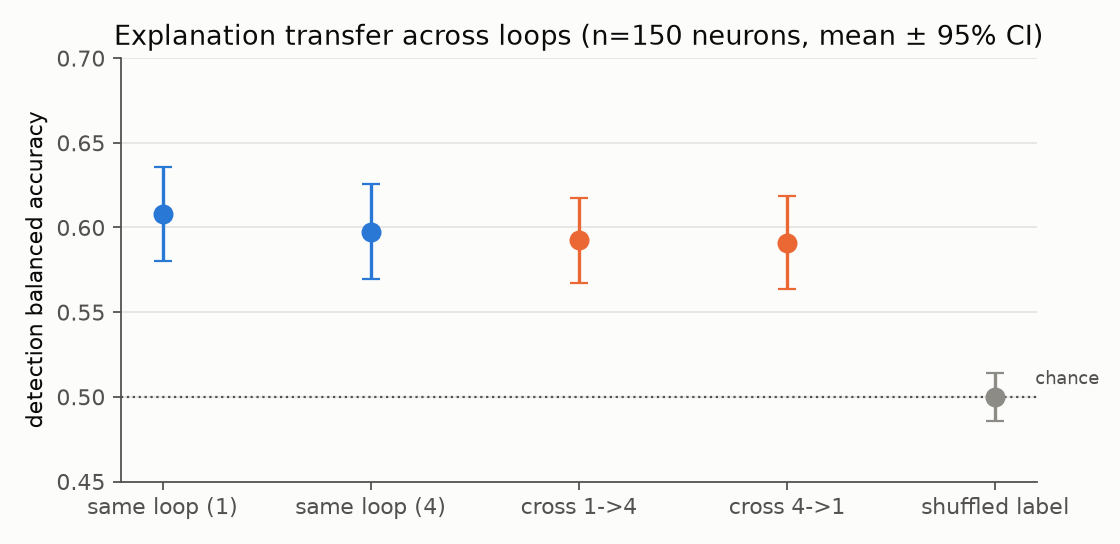
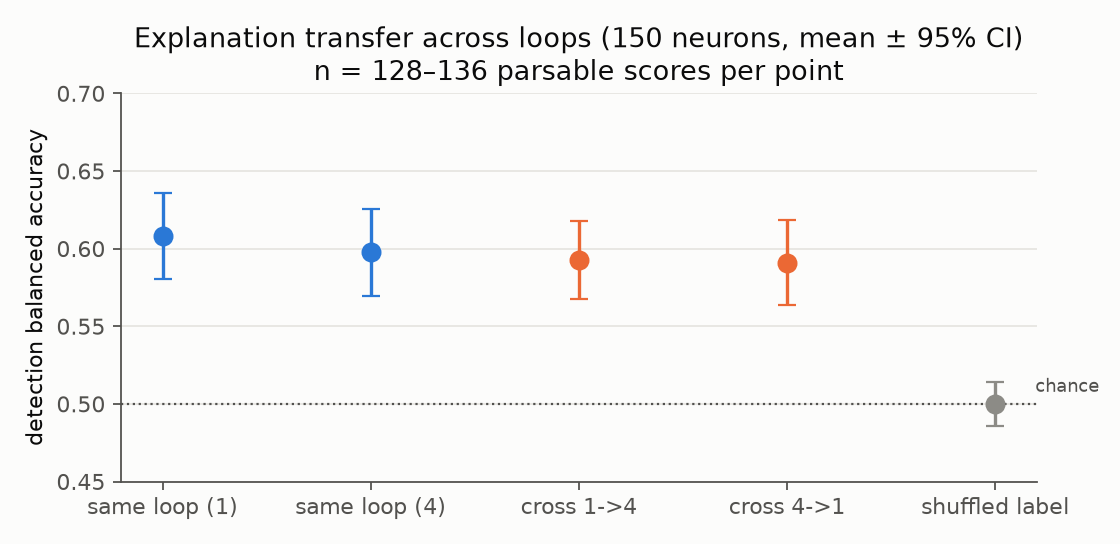
Fix docstrings, HF card text, figure labels; render fresh replication table with null-floor note
- reporting: tables for replication.json and replication_fresh.json, each with a note that R=20, K=5 cannot pass Holm
- plots: audit title shows parsable n per point; confirm legend names the 50-prompt null statistic
- DATASET_CARD: atlas skips positions 0-3, 90/10 mix is per document, Common Crawl terms
- docstrings: Delphi prompt provenance, distinct-2 definition, Ouro paper reports benchmarks not loss, Bills scale

diff --git a/src/loopneuron/reporting.py b/src/loopneuron/reporting.py
@@ -1,7 +1,7 @@
-"""Markdown tables rendered directly from results/<model>/*.json (no hand-copied numbers in reports).
+"""Markdown tables rendered directly from results/<model>/*.json (no hand-copied numbers in these tables).
 
-Global context: `run_pipeline.py --phase report` writes reports/tables/*.md; narrative reports include these files'
-content verbatim, so every reported number is traceable to a results file.
+Global context: `run_pipeline.py --phase report` writes reports/tables/*.md. The narrative reports link to these
+tables and copy selected numbers from them or from the results JSON, so every reported number can be traced to a file.
 """
 from __future__ import annotations
 
@@ -123,12 +123,20 @@ def write_tables(res_dir: Path, out_dir: Path) -> list[Path]:
                          f"### Test-time loops\n{locus_table(f['t_sweep'], 'T')}\n\n### Ablation\n{ablation_line(f['ablation'])}\n",
                          encoding="utf-8")
             made.append(p)
-    if (res_dir / "replication.json").exists():
-        rep = rd("replication.json")
-        p = out_dir / "replication.md"
-        p.write_text(confirm_table(rep, labels) + "\n\nWeight correspondence: " + json.dumps(rep["correspondence"]) +
-                     "\n\nMax activation base vs Thinking: " + json.dumps({"base": rep["base_max_act"], "thinking": rep["thinking_max_act"]}) + "\n",
-                     encoding="utf-8")
+    for name in ("replication", "replication_fresh"):  # Thinking checkpoint: confirm prompts, then fresh reserve prompts
+        if not (res_dir / f"{name}.json").exists():
+            continue
+        rep = rd(f"{name}.json")
+        floor = len(rep["results"]) / (rep["R"] + 1)  # smallest Holm-adjusted null p = K / (R + 1)
+        note = (f"\n\nThe decision column applies the confirmatory rule. With R = {rep['R']} random neurons and K = "
+                f"{len(rep['results'])}, the smallest attainable Holm-adjusted null p is {floor:.3f}"
+                + (", so it reads 'not significant' by construction; the replication criterion is in "
+                   "reports/06_replication.md." if floor >= 0.05 else "."))
+        if "correspondence" in rep:  # only the first replication run checks weights and maxima
+            note += ("\n\nWeight correspondence: " + json.dumps(rep["correspondence"]) + "\n\nMax activation base vs Thinking: "
+                     + json.dumps({"base": rep["base_max_act"], "thinking": rep["thinking_max_act"]}))
+        p = out_dir / f"{name}.md"
+        p.write_text(confirm_table(rep, labels) + note + "\n", encoding="utf-8")
         made.append(p)
     if (res_dir / "audit.json").exists() and (res_dir / "llm_judge.json").exists():
         p = out_dir / "audit_judge.md"

diff --git a/run_pipeline.py b/run_pipeline.py
@@ -373,12 +373,13 @@ https://github.com/BurnyCoder/looped-transformers-llms-neuron-mechanistic-interp
 
 Files:
 - `atlas.pt`: torch dict for all 135,168 SwiGLU neurons (24 layers x 5632) and both poles (index 0 = positive, 1 = negative).
-  - `top_v`/`top_seq`/`top_pos`/`top_loop` [24, 2, 5632, 40]: top-40 contexts, maximum over positions x loops.
+  - `top_v`/`top_seq`/`top_pos`/`top_loop` [24, 2, 5632, 40]: top-40 contexts, maximum over positions 4-255 x loops
+    (the first 4 positions of every chunk are skipped).
   - `lt_v`/`lt_seq`/`lt_pos` [24, 4, 2, 5632, 20]: top-20 contexts per loop.
-  - Per-loop `mean`, `mean_abs`, `std`, `frac_pos` [24, 4, 5632].
+  - Per-loop `mean`, `mean_abs`, `std`, `frac_pos` [24, 4, 5632] (every 8th batch, 987,840 tokens per layer and loop).
   - `exceed` counts and the `dead` flag.
 - `tokens_atlas.npy`: uint16 [31250, 256], the token chunks that `*_seq`/`*_pos` index (Ouro tokenizer;
-  FineWeb-Edu sample-10BT shard 000 + 10% OpenWebMath).
+  documents drawn 90% from FineWeb-Edu sample-10BT shard 000 and 10% from OpenWebMath shard 0).
 - `featured_neurons.jsonl`: decoded top contexts (peak token marked <<>>) for the screened and validated candidates.
 - `results/*.json`: pre-registered confirmatory test, follow-ups, audit, replication and LLM-judge results.
 
@@ -388,8 +389,9 @@ indices also steer Ouro-1.4B-Thinking (replication with a descriptive 20-neuron 
 
 Licenses and attribution: the tables and results produced by this project are MIT-licensed. `tokens_atlas.npy` and the
 decoded contexts in `featured_neurons.jsonl` derive from FineWeb-Edu (https://huggingface.co/datasets/HuggingFaceFW/fineweb-edu)
-and OpenWebMath (https://huggingface.co/datasets/open-web-math/open-web-math), both ODC-By 1.0, and remain subject to
-those terms. Activations come from Ouro-1.4B (Apache-2.0).
+and OpenWebMath (https://huggingface.co/datasets/open-web-math/open-web-math), both ODC-By 1.0 and the Common Crawl
+Terms of Use (https://commoncrawl.org/terms-of-use), and remain subject to those terms. Activations come from Ouro-1.4B
+(Apache-2.0).
 """
 
 

diff --git a/src/loopneuron/prompts.py b/src/loopneuron/prompts.py
@@ -1,10 +1,12 @@
-"""LLM prompt templates, copied verbatim from established auto-interp / steering-eval work (both Apache-2.0).
+"""LLM prompt templates from established auto-interp / steering-eval work (both repos Apache-2.0).
 
 - EXPLAINER_SYSTEM and DETECTION_* : EleutherAI Delphi (Paulo et al. 2024, https://arxiv.org/abs/2410.13928),
   files delphi/explainers/default/prompts.py and delphi/scorers/classifier/prompts/detection_prompt.py
-  at https://github.com/EleutherAI/delphi .
+  at https://github.com/EleutherAI/delphi . The system and user prompts are verbatim (EXPLAINER_SYSTEM without
+  Delphi's trailing chain-of-thought slot); the few-shot examples are Delphi's, decoded from GPT-2 byte-level BPE
+  strings and ASCII-normalized (one apostrophe became "boss's"). Kept as run, so logs match this file.
 - JUDGE_CONCEPT / JUDGE_FLUENCY : AxBench (Wu et al. 2025, https://arxiv.org/abs/2501.17148),
-  axbench/evaluators/prompt_templates.py at https://github.com/stanfordnlp/axbench .
+  axbench/evaluators/prompt_templates.py at https://github.com/stanfordnlp/axbench (verbatim).
 Global context: autointerp.py formats these; llm.py sends them to the local Qwen3.5 server and logs them in full.
 """
 
@@ -29,7 +31,7 @@ You will then be given several text examples. Your task is to determine which ex
 For each example in turn, return 1 if the sentence is correctly labeled or 0 if the tokens are mislabeled. You must return your response in a valid Python list. Do not return anything else besides a Python list.
 """
 
-DETECTION_FEWSHOT = [  # Delphi's three few-shot examples (Neuronpedia GPT-2 small latents)
+DETECTION_FEWSHOT = [  # Delphi's three few-shot examples (Neuronpedia GPT-2 small latents), decoded from byte-level BPE
     ("""Latent explanation: Words related to American football positions, specifically the tight end position.
 
 Test examples:

diff --git a/src/loopneuron/plots.py b/src/loopneuron/plots.py
@@ -87,7 +87,7 @@ def confirm_effects(conf: dict, path: Path):
     ax.set_yticks(range(len(rs)), [f'L{r["layer"]} N{r["neuron"]} {"+" if r["pole"] == 0 else "−"}  α={r["alpha"]:g}' for r in rs])
     ax.set(xlabel="mean ΔC (steered − unsteered), 95% bootstrap CI", title="Pre-registered confirmatory test")
     ax.plot([], [], "o-", color=S1, label="candidate (significant)")
-    ax.plot([], [], "|", color=S2, ms=12, mew=2, label="random same-layer null, 95th pct.")
+    ax.plot([], [], "|", color=S2, ms=12, mew=2, label="random same-layer null, 95th pct. (50 prompts, sample 0)")
     ax.legend(loc="upper center", bbox_to_anchor=(0.5, -0.22), ncol=2, fontsize=8)
     return _save(fig, path)
 
@@ -187,6 +187,7 @@ def audit_bars(audit: list, path: Path, T: int = 4):
               "shuffled label": np.array([r["shuffled"]["balanced_acc"] for r in audit])}
     fig, ax = plt.subplots(figsize=(7, 3.4))
     names = list(groups)
+    ns = [int(np.isfinite(groups[n]).sum()) for n in names]  # parsable scores per point (unparsable = NaN, dropped)
     for i, n in enumerate(names):  # dot + CI (not bars): the axis does not start at 0
         v = groups[n][np.isfinite(groups[n])]
         se = v.std(ddof=1) / np.sqrt(len(v))
@@ -197,7 +198,8 @@ def audit_bars(audit: list, path: Path, T: int = 4):
     ax.set_xticks(range(len(names)), names)
     ax.grid(axis="x", visible=False)
     ax.set(ylabel="detection balanced accuracy", ylim=(0.45, 0.7),
-           title=f"Explanation transfer across loops (n={len(audit)} neurons, mean ± 95% CI)")
+           title=f"Explanation transfer across loops ({len(audit)} neurons, mean ± 95% CI)\n"
+                 f"n = {min(ns)}–{max(ns)} parsable scores per point")
     return _save(fig, path)
 
 

diff --git a/tests/test_reporting.py b/tests/test_reporting.py
@@ -1,4 +1,6 @@
 """Audit and LLM-judge statistics in reporting must pair the right scores, drop unparsable ones and match scipy/Holm."""
+import json
+
 import numpy as np
 from scipy import stats as st
 
@@ -26,3 +28,18 @@ def test_audit_tests_pairing_and_nan_handling():
 def test_judge_holm_matches_stats_holm():
     judge = {"a": {"p_concept": 0.003}, "b": {"p_concept": 0.04}, "c": {"p_concept": 0.0001}}
     assert np.allclose(list(reporting.judge_holm(judge).values()), stats.holm([0.003, 0.04, 0.0001]))
+
+
+def test_write_tables_renders_fresh_replication_with_null_floor_note(tmp_path):
+    """replication_fresh.json gets its own table, and the note explains why R=20, K=5 can never pass Holm."""
+    row = {"layer": 1, "pole": 0, "alpha": 1.0, "mean_delta": 0.1, "ci95": [0.05, 0.15], "dz": 1.0, "rank_biserial": 0.9,
+           "p_wilcoxon": 1e-10, "p_wilcoxon_holm": 1e-10, "p_null": 1 / 21, "p_null_holm": 5 / 21, "null_mean": 0.0,
+           "null_q95": 0.01, "ppl_ratio_median": 1.5, "distinct2_steered_median": 0.9, "robust_mean_delta": 0.1,
+           "significant": False}
+    rows = [{**row, "key": f"1_{i}_0", "neuron": i} for i in range(5)]  # K = 5 candidates
+    (tmp_path / "screen.json").write_text(json.dumps({"candidates": [{"layer": 1, "neuron": 0, "pole": 0, "label": "x"}]}))
+    (tmp_path / "replication_fresh.json").write_text(json.dumps({"R": 20, "results": rows}))
+    made = reporting.write_tables(tmp_path, tmp_path / "tables")
+    text = (tmp_path / "tables" / "replication_fresh.md").read_text(encoding="utf-8")
+    assert [p.name for p in made] == ["replication_fresh.md"]
+    assert "R = 20" in text and "0.238" in text and "by construction" in text

diff --git a/src/loopneuron/autointerp.py b/src/loopneuron/autointerp.py
@@ -1,8 +1,9 @@
 """Automated neuron explanations, detection scoring and AxBench-style judging with the local LLM.
 
 Local:
-- `explain`: Delphi explainer prompt over top examples with the peak token marked <<like this>> and its activation
-  on a 0-10 scale relative to the neuron's max (scale convention of Bills et al. 2023).
+- `explain`: Delphi explainer system prompt (without Delphi's few-shot demonstrations) over top examples with the peak
+  token marked <<like this>> and one activation level per example on a 0-10 scale relative to the neuron's max (as in
+  Bills et al. 2023, which floors relu(a); here |a| is rounded).
 - `detection_score`: Delphi detection scorer -> balanced accuracy of the LLM deciding, from the explanation alone,
   which held-out contexts are activating vs random (Paulo et al. 2024, https://arxiv.org/abs/2410.13928).
 - `judge`: AxBench concept/fluency ratings 0-2 with explanation before the score (Wu et al. 2025).

diff --git a/src/loopneuron/experiments.py b/src/loopneuron/experiments.py
@@ -5,7 +5,7 @@ Local:
 - dose_response: Delta concept score and PPL ratio over alpha (clamp = alpha x max|a| on the pole), with the
   sandwich-norm saturation scale c* = median ||W_down a|| / ||w_i|| measured on the prompts (docs/methodology.md sec. 2).
 - loop_locus (H2): clamp only at loop t; behavioral Delta C, next-token KL on the prompts, and relative displacement
-  of the final hidden state. Prior residual-direction steering of Ouro found the last loop most effective
+  of the final hidden state. Prior residual-direction steering of Ouro-1.4B-Thinking found the last loop most effective
   (nesiacel 2026, https://www.lesswrong.com/posts/rzcJMpnehFBD686gj/).
 - t_sweep (H3): clamp at all loops while running T = 1..8 loops (T > 4 is extrapolation), each vs its own baseline.
 - ablation: set the neuron to 0 at all loops on its held-out top contexts (atlas ranks 21-40) and measure the NLL

diff --git a/src/loopneuron/metrics.py b/src/loopneuron/metrics.py
@@ -6,7 +6,8 @@ Local:
   Embedder: BAAI/bge-small-en-v1.5 (https://huggingface.co/BAAI/bge-small-en-v1.5) via sentence-transformers
   (https://www.sbert.net/); robustness embedder: sentence-transformers/all-MiniLM-L6-v2.
 - Fluency guard: perplexity of the continuation under the *unsteered* model given the prompt.
-- distinct-2: unique bigrams / bigrams (Li et al. 2016, https://arxiv.org/abs/1510.03055) for repetition confounds.
+- distinct-2: unique / total bigrams of one continuation, a per-text variant of the distinct-n diversity score of
+  Li et al. 2016 (https://arxiv.org/abs/1510.03055, computed there over all responses); low = repetitive text.
 - Concept-token mass: log of total next-token probability on the neuron's keyword tokens (teacher-forced).
 Global context: screening and the confirmatory test compute these for every (prompt, sample, condition).
 """

diff --git a/src/loopneuron/sanity.py b/src/loopneuron/sanity.py
@@ -3,7 +3,8 @@
 Checks (all written to results/<model>/setup_check.json and the log):
 0. the checkpoint loads with no missing, unexpected or mismatched state-dict keys;
 1. held-out FineWeb-Edu loss/perplexity for T = 1..8 loops (T>4 is extrapolation; Zhu et al. 2025,
-   https://arxiv.org/abs/2510.25741, report loss improving with recurrent steps up to the trained T=4);
+   https://arxiv.org/abs/2510.25741 §5.3, report benchmark performance improving up to the trained T=4 and degrading
+   moderately beyond it);
 2. how often the model's *default* early-exit path (threshold 1.0 on a bf16 cumulative exit PDF) disagrees with the
    fixed last-loop exit we use everywhere (motivates `model.early_exit_step = T-1`);
 3. a few sampled continuations (logged in full) to eyeball fluency.

diff --git a/src/loopneuron/config.py b/src/loopneuron/config.py
@@ -96,7 +96,7 @@ def load_settings(**overrides) -> Settings:
 def disk_guard(required_gb: float, min_free_gb: float, path: Path = ROOT) -> float:
     """Raise if downloading `required_gb` would leave less than `min_free_gb` free on `path`'s drive.
 
-    Returns current free GB. The dev machine has ~25 GB free, so every download goes through this check.
+    Returns current free GB. `load_model` calls it before downloading uncached Ouro weights.
     """
     free_gb = shutil.disk_usage(path).free / 1e9  # bytes -> GB (decimal, like HF file sizes)
     if free_gb - required_gb < min_free_gb:  # projected free space after the download

diff --git a/reports/tables/replication.md b/reports/tables/replication.md
@@ -6,6 +6,8 @@
 | L6 N3344 - | 4.0 | The text latents describe interface elements and actions for validating and rewarding cont | 0.180 [0.160, 0.201] | 1.68 | 0.99 | 4.0e-18 (1.6e-17) | 0.0476 (0.2381) | 0.020 / 0.100 | 1.79 | 0.79 | 0.133 | not significant |
 | L18 N1735 - | 2.0 | The text latents commonly describe core quantum mechanical concepts related to atomic stru | 0.169 [0.142, 0.196] | 1.21 | 0.94 | 2.1e-16 (2.1e-16) | 0.0476 (0.2381) | 0.003 / 0.010 | 1.98 | 0.87 | 0.233 | not significant |
 
+The decision column applies the confirmatory rule. With R = 20 random neurons and K = 5, the smallest attainable Holm-adjusted null p is 0.238, so it reads 'not significant' by construction; the replication criterion is in reports/06_replication.md.
+
 Weight correspondence: [{"layer": 18, "layer_min_cos_quantiles": [0.9939496427774429, 0.995608925819397, 0.9979492264986038], "candidates": {"3066": {"gate_proj": 0.997904896736145, "up_proj": 0.9968602657318115, "down_proj": 0.997141420841217}}}, {"layer": 13, "layer_min_cos_quantiles": [0.9933820247650147, 0.9952685236930847, 0.9978753793239593], "candidates": {"1680": {"gate_proj": 0.9963729977607727, "up_proj": 0.9982006549835205, "down_proj": 0.9981408715248108}}}, {"layer": 4, "layer_min_cos_quantiles": [0.995450987815857, 0.9967373013496399, 0.9983623677492142], "candidates": {"2104": {"gate_proj": 0.9964658617973328, "up_proj": 0.9984044432640076, "down_proj": 0.9976550340652466}}}, {"layer": 6, "layer_min_cos_quantiles": [0.9948334562778473, 0.9962727427482605, 0.9981365245580673], "candidates": {"3344": {"gate_proj": 0.9963160157203674, "up_proj": 0.9972864985466003, "down_proj": 0.9970216751098633}}}, {"layer": 18, "layer_min_cos_quantiles": [0.9939496427774429, 0.995608925819397, 0.9979492264986038], "candidates": {"1735": {"gate_proj": 0.9978899955749512, "up_proj": 0.9970484375953674, "down_proj": 0.9979668855667114}}}]
 
 Max activation base vs Thinking: {"base": {"18_3066_1": 4.0625, "13_1680_0": 0.66015625, "4_2104_0": 0.56640625, "6_3344_1": 0.267578125, "18_1735_1": 3.625}, "thinking": {"18_3066_1": 4.125, "13_1680_0": 0.69140625, "4_2104_0": 0.56640625, "6_3344_1": 0.25390625, "18_1735_1": 3.515625}}

diff --git a/reports/tables/replication_fresh.md b/reports/tables/replication_fresh.md
@@ -1,0 +1,9 @@
+| neuron (layer, index, pole) | alpha | concept (Qwen3.5 label, shortened) | mean Delta C [95% CI] | d_z | rank-biserial | p Wilcoxon (Holm) | p random-neuron null (Holm) | null mean / q95 | PPL ratio | steered distinct-2 | MiniLM Delta C | decision |
+|---|---|---|---|---|---|---|---|---|---|---|---|---|
+| L18 N3066 - | 1.0 | The highlighted tokens consistently identify core phonetic or orthographic units—such as v | 0.175 [0.152, 0.199] | 1.46 | 0.97 | 1.4e-17 (2.8e-17) | 0.0476 (0.2381) | -0.004 / 0.005 | 1.84 | 0.89 | 0.247 | not significant |
+| L13 N1680 + | 1.0 | The text latents consistently emphasize metaphysical concepts of non-duality, dependent or | 0.179 [0.154, 0.203] | 1.44 | 1.00 | 2.6e-18 (1.1e-17) | 0.0476 (0.2381) | 0.014 / 0.026 | 1.82 | 0.90 | 0.227 | not significant |
+| L4 N2104 + | 2.0 | The text latents commonly describe the domain of pedagogical content knowledge, emphasizin | 0.165 [0.147, 0.182] | 1.80 | 1.00 | 2.1e-18 (1.1e-17) | 0.0476 (0.2381) | -0.011 / 0.005 | 1.82 | 0.90 | 0.224 | not significant |
+| L6 N3344 - | 4.0 | The text latents describe interface elements and actions for validating and rewarding cont | 0.168 [0.150, 0.188] | 1.69 | 0.99 | 3.7e-18 (1.1e-17) | 0.0476 (0.2381) | 0.002 / 0.052 | 1.88 | 0.77 | 0.123 | not significant |
+| L18 N1735 - | 2.0 | The text latents commonly describe core quantum mechanical concepts related to atomic stru | 0.157 [0.132, 0.184] | 1.18 | 0.94 | 2.0e-16 (2.0e-16) | 0.0476 (0.2381) | 0.006 / 0.016 | 1.97 | 0.89 | 0.217 | not significant |
+
+The decision column applies the confirmatory rule. With R = 20 random neurons and K = 5, the smallest attainable Holm-adjusted null p is 0.238, so it reads 'not significant' by construction; the replication criterion is in reports/06_replication.md.
